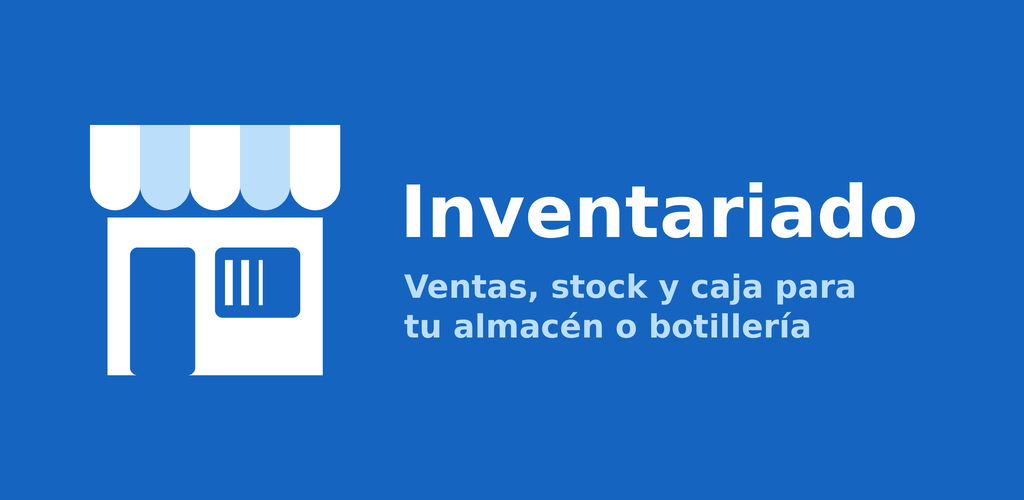
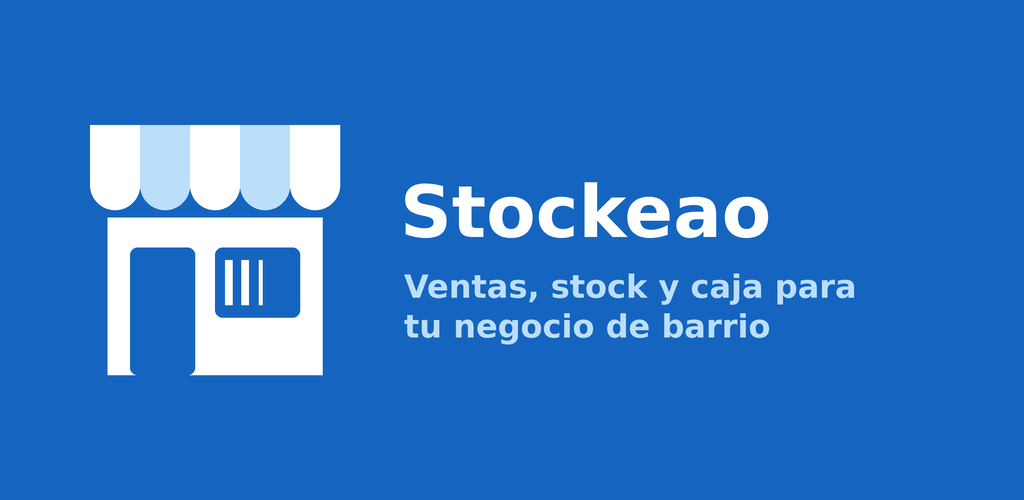
Nueva marca: Stockeao
- Nombre visible, paquete Android (cl.stockeao.app), esquema de enlaces y
  nombre de los archivos de compilación y respaldo.
- Textos de la app, términos y privacidad, páginas legales regeneradas y
  gráfico destacado de Google Play (pensado para cualquier negocio de barrio).
- Lo interno no cambia: esquema "inventariado" de Supabase, base local y
  clave de firma.

Claude-Session: https://claude.ai/code/session_01Ps7UGs9rsuZjk8WfdduxXN

Changed region(s): [[0.375, 0.36, 0.9062, 0.48], [0.4375, 0.63, 0.8125, 0.69]]

diff --git a/src/legal/textos.ts b/src/legal/textos.ts
@@ -7,30 +7,30 @@
 
 export const FECHA_LEGAL = '29 de septiembre de 2026';
 
-export const TERMINOS = `Términos y condiciones de uso de Inventariado
+export const TERMINOS = `Términos y condiciones de uso de Stockeao
 
 Última actualización: ${FECHA_LEGAL}
 
 1. El servicio
-Inventariado es una aplicación para administrar el inventario, las ventas y la caja de almacenes, botillerías y comercios similares. Se ofrece como servicio con pago mensual por negocio.
+Stockeao es una aplicación para administrar el inventario, las ventas y la caja de almacenes, botillerías y comercios similares. Se ofrece como servicio con pago mensual por negocio.
 
 2. Cuenta y usuarios
 El negocio se registra con un correo y contraseña, que son responsabilidad de quien los crea. Los usuarios del local (dueño y cajeros) se identifican con un PIN, que sirve para distinguir a las personas en el teléfono y no reemplaza la contraseña de la cuenta.
 
 3. Prueba gratis, planes y pagos
-Cada negocio nuevo tiene un período de prueba gratis. Luego debe contratar un plan mensual directamente con Inventariado. Los planes difieren, entre otras cosas, en la cantidad de teléfonos que se pueden usar. Los precios vigentes se informan al contratar y pueden cambiar con aviso previo de al menos 30 días.
+Cada negocio nuevo tiene un período de prueba gratis. Luego debe contratar un plan mensual directamente con Stockeao. Los planes difieren, entre otras cosas, en la cantidad de teléfonos que se pueden usar. Los precios vigentes se informan al contratar y pueden cambiar con aviso previo de al menos 30 días.
 
 4. Vencimiento y suspensión
 Si la suscripción vence, hay un período de gracia durante el cual la app sigue funcionando con avisos. Terminado ese período, la app queda en modo solo lectura: se pueden consultar los datos, pero no registrar ventas ni hacer cambios. Los datos no se borran por falta de pago y el servicio se reactiva al pagar.
 
 5. Uso correcto
-El cliente se compromete a usar la app para fines lícitos y a no intentar acceder a datos de otros negocios. Inventariado no es un sistema de facturación ni de boleta electrónica: los comprobantes que genera son internos y no tienen validez tributaria. El cumplimiento de las obligaciones tributarias es responsabilidad del cliente.
+El cliente se compromete a usar la app para fines lícitos y a no intentar acceder a datos de otros negocios. Stockeao no es un sistema de facturación ni de boleta electrónica: los comprobantes que genera son internos y no tienen validez tributaria. El cumplimiento de las obligaciones tributarias es responsabilidad del cliente.
 
 6. Disponibilidad
 La app funciona sin internet y sincroniza los datos cuando hay conexión. Se hacen esfuerzos razonables para que el servicio esté disponible y los datos respaldados, pero pueden ocurrir interrupciones. Se recomienda revisar periódicamente los reportes y cierres de caja.
 
 7. Responsabilidad
-El servicio se entrega "tal cual". Inventariado no responde por pérdidas derivadas de un mal uso, de datos ingresados incorrectamente, de fallas del teléfono o de la conexión, ni por decisiones comerciales tomadas con la información de la app, en la medida que la ley lo permita.
+El servicio se entrega "tal cual". Stockeao no responde por pérdidas derivadas de un mal uso, de datos ingresados incorrectamente, de fallas del teléfono o de la conexión, ni por decisiones comerciales tomadas con la información de la app, en la medida que la ley lo permita.
 
 8. Término del servicio
 El cliente puede dejar de usar el servicio en cualquier momento. Puede descargar una copia de sus datos (Más → Exportar datos) y eliminar el negocio con todos sus datos (Más → Eliminar cuenta y datos), según la Política de privacidad.
@@ -41,7 +41,7 @@ Estos términos pueden actualizarse. Los cambios relevantes se avisarán en la a
 10. Ley aplicable
 Estos términos se rigen por las leyes de la República de Chile.`;
 
-export const PRIVACIDAD = `Política de privacidad de Inventariado
+export const PRIVACIDAD = `Política de privacidad de Stockeao
 
 Última actualización: ${FECHA_LEGAL}
 

diff --git a/docs/legal-web/terminos.html b/docs/legal-web/terminos.html
@@ -3,7 +3,7 @@
   <head>
     <meta charset="utf-8" />
     <meta name="viewport" content="width=device-width, initial-scale=1" />
-    <title>Términos y condiciones de uso de Inventariado</title>
+    <title>Términos y condiciones de uso de Stockeao</title>
     <style>
       body {
         font-family: system-ui, sans-serif;
@@ -41,16 +41,15 @@
   </head>
   <body>
     <nav>
-      <a href="index.html">Inventariado</a><a href="privacidad.html">Privacidad</a
+      <a href="index.html">Stockeao</a><a href="privacidad.html">Privacidad</a
       ><a href="terminos.html">Términos</a><a href="eliminar-cuenta.html">Eliminar cuenta</a>
     </nav>
-    <h1>Términos y condiciones de uso de Inventariado</h1>
+    <h1>Términos y condiciones de uso de Stockeao</h1>
     <p>Última actualización: 29 de septiembre de 2026</p>
     <h2>1. El servicio</h2>
     <p>
-      Inventariado es una aplicación para administrar el inventario, las ventas y la caja de
-      almacenes, botillerías y comercios similares. Se ofrece como servicio con pago mensual por
-      negocio.
+      Stockeao es una aplicación para administrar el inventario, las ventas y la caja de almacenes,
+      botillerías y comercios similares. Se ofrece como servicio con pago mensual por negocio.
     </p>
     <h2>2. Cuenta y usuarios</h2>
     <p>
@@ -61,9 +60,9 @@
     <h2>3. Prueba gratis, planes y pagos</h2>
     <p>
       Cada negocio nuevo tiene un período de prueba gratis. Luego debe contratar un plan mensual
-      directamente con Inventariado. Los planes difieren, entre otras cosas, en la cantidad de
-      teléfonos que se pueden usar. Los precios vigentes se informan al contratar y pueden cambiar
-      con aviso previo de al menos 30 días.
+      directamente con Stockeao. Los planes difieren, entre otras cosas, en la cantidad de teléfonos
+      que se pueden usar. Los precios vigentes se informan al contratar y pueden cambiar con aviso
+      previo de al menos 30 días.
     </p>
     <h2>4. Vencimiento y suspensión</h2>
     <p>
@@ -75,7 +74,7 @@
     <h2>5. Uso correcto</h2>
     <p>
       El cliente se compromete a usar la app para fines lícitos y a no intentar acceder a datos de
-      otros negocios. Inventariado no es un sistema de facturación ni de boleta electrónica: los
+      otros negocios. Stockeao no es un sistema de facturación ni de boleta electrónica: los
       comprobantes que genera son internos y no tienen validez tributaria. El cumplimiento de las
       obligaciones tributarias es responsabilidad del cliente.
     </p>
@@ -87,8 +86,8 @@
     </p>
     <h2>7. Responsabilidad</h2>
     <p>
-      El servicio se entrega "tal cual". Inventariado no responde por pérdidas derivadas de un mal
-      uso, de datos ingresados incorrectamente, de fallas del teléfono o de la conexión, ni por
+      El servicio se entrega "tal cual". Stockeao no responde por pérdidas derivadas de un mal uso,
+      de datos ingresados incorrectamente, de fallas del teléfono o de la conexión, ni por
       decisiones comerciales tomadas con la información de la app, en la medida que la ley lo
       permita.
     </p>

diff --git a/docs/legal-web/eliminar-cuenta.html b/docs/legal-web/eliminar-cuenta.html
@@ -3,7 +3,7 @@
   <head>
     <meta charset="utf-8" />
     <meta name="viewport" content="width=device-width, initial-scale=1" />
-    <title>Eliminar tu cuenta de Inventariado</title>
+    <title>Eliminar tu cuenta de Stockeao</title>
     <style>
       body {
         font-family: system-ui, sans-serif;
@@ -41,16 +41,16 @@
   </head>
   <body>
     <nav>
-      <a href="index.html">Inventariado</a><a href="privacidad.html">Privacidad</a
+      <a href="index.html">Stockeao</a><a href="privacidad.html">Privacidad</a
       ><a href="terminos.html">Términos</a><a href="eliminar-cuenta.html">Eliminar cuenta</a>
     </nav>
-    <h1>Eliminar tu cuenta de Inventariado</h1>
+    <h1>Eliminar tu cuenta de Stockeao</h1>
     <p>
       El dueño del negocio puede eliminar el negocio y <strong>todos sus datos</strong> en cualquier
       momento:
     </p>
     <ol>
-      <li>Abre Inventariado e ingresa con tu PIN de dueño.</li>
+      <li>Abre Stockeao e ingresa con tu PIN de dueño.</li>
       <li>Ve a la pestaña <strong>Más</strong> → <strong>Eliminar cuenta y datos</strong>.</li>
       <li>Escribe ELIMINAR, ingresa la contraseña de la cuenta y confirma.</li>
     </ol>

diff --git a/src/app/suscripcion.tsx b/src/app/suscripcion.tsx
@@ -113,7 +113,7 @@ export default function SuscripcionScreen() {
   const avisarPago = async () => {
     const negocio = negocioId ? await obtenerNegocio(db, negocioId) : null;
     const texto = encodeURIComponent(
-      `Hola, quiero pagar la suscripción de Inventariado para "${negocio?.nombre ?? ''}".`,
+      `Hola, quiero pagar la suscripción de Stockeao para "${negocio?.nombre ?? ''}".`,
     );
     const numero = CONTACTO.whatsapp.replace(/\D/g, '');
     Linking.openURL(
@@ -157,8 +157,7 @@ export default function SuscripcionScreen() {
       {CANAL === 'play' ? (
         <View style={estilos.tarjeta}>
           <Text style={estilos.nota}>
-            La suscripción de tu negocio se gestiona directamente con Inventariado, fuera de esta
-            app.
+            La suscripción de tu negocio se gestiona directamente con Stockeao, fuera de esta app.
           </Text>
         </View>
       ) : null}

diff --git a/docs/legal-web/privacidad.html b/docs/legal-web/privacidad.html
@@ -3,7 +3,7 @@
   <head>
     <meta charset="utf-8" />
     <meta name="viewport" content="width=device-width, initial-scale=1" />
-    <title>Política de privacidad de Inventariado</title>
+    <title>Política de privacidad de Stockeao</title>
     <style>
       body {
         font-family: system-ui, sans-serif;
@@ -41,10 +41,10 @@
   </head>
   <body>
     <nav>
-      <a href="index.html">Inventariado</a><a href="privacidad.html">Privacidad</a
+      <a href="index.html">Stockeao</a><a href="privacidad.html">Privacidad</a
       ><a href="terminos.html">Términos</a><a href="eliminar-cuenta.html">Eliminar cuenta</a>
     </nav>
-    <h1>Política de privacidad de Inventariado</h1>
+    <h1>Política de privacidad de Stockeao</h1>
     <p>Última actualización: 29 de septiembre de 2026</p>
     <h2>1. Qué datos se guardan</h2>
     <ul>

diff --git a/docs/legal-web/index.html b/docs/legal-web/index.html
@@ -3,7 +3,7 @@
   <head>
     <meta charset="utf-8" />
     <meta name="viewport" content="width=device-width, initial-scale=1" />
-    <title>Inventariado</title>
+    <title>Stockeao</title>
     <style>
       body {
         font-family: system-ui, sans-serif;
@@ -41,10 +41,10 @@
   </head>
   <body>
     <nav>
-      <a href="index.html">Inventariado</a><a href="privacidad.html">Privacidad</a
+      <a href="index.html">Stockeao</a><a href="privacidad.html">Privacidad</a
       ><a href="terminos.html">Términos</a><a href="eliminar-cuenta.html">Eliminar cuenta</a>
     </nav>
-    <h1>Inventariado</h1>
+    <h1>Stockeao</h1>
     <p>
       Inventario, ventas y caja para almacenes, botillerías y minimarkets. Funciona sin internet y
       sincroniza entre los teléfonos del local.

diff --git a/src/__tests__/playstore.test.tsx b/src/__tests__/playstore.test.tsx
@@ -126,7 +126,7 @@ it('la versión de Play no muestra precios ni formas de pago externas', async ()
   await entrarComo('Ana', '1234');
   fireEvent.press(await screen.findByText('Suscripción'));
 
-  expect(await screen.findByText(/se gestiona directamente con Inventariado/)).toBeTruthy();
+  expect(await screen.findByText(/se gestiona directamente con Stockeao/)).toBeTruthy();
   expect(screen.queryByText('¿Cómo pagar?')).toBeNull();
   expect(screen.queryByText('Avisar que pagué')).toBeNull();
   expect(screen.queryByText('$9.990/mes')).toBeNull();

diff --git a/src/app/bienvenida.tsx b/src/app/bienvenida.tsx
@@ -14,7 +14,7 @@ export default function BienvenidaScreen() {
     <SafeAreaView style={estilos.pantalla}>
       <View style={estilos.encabezado}>
         <Ionicons name="storefront-outline" size={72} color={colores.primario} />
-        <Text style={estilos.titulo}>Inventariado</Text>
+        <Text style={estilos.titulo}>Stockeao</Text>
         <Text style={estilos.subtitulo}>Inventario y ventas para tu almacén o botillería</Text>
       </View>
 

diff --git a/src/app/exportar.tsx b/src/app/exportar.tsx
@@ -114,7 +114,7 @@ export default function ExportarScreen() {
           variante="secundario"
           cargando={trabajando === 'respaldo'}
           onPress={() =>
-            compartir('respaldo', `respaldo-inventariado-${hoy()}.json`, 'application/json', () =>
+            compartir('respaldo', `respaldo-stockeao-${hoy()}.json`, 'application/json', () =>
               respaldoJson(db, negocioId!),
             )
           }

diff --git a/app.config.ts b/app.config.ts
@@ -7,8 +7,8 @@ export default ({ config }: ConfigContext): ExpoConfig => {
 
   return {
     ...config,
-    name: config.name ?? 'Inventariado',
-    slug: config.slug ?? 'inventariado',
+    name: config.name ?? 'Stockeao',
+    slug: config.slug ?? 'stockeao',
     android: { ...config.android, versionCode },
   };
 };

diff --git a/src/features/exportar/exportar.ts b/src/features/exportar/exportar.ts
@@ -120,7 +120,7 @@ export async function respaldoJson(db: BaseLocal, negocioId: string): Promise<st
     );
   }
   return JSON.stringify(
-    { app: 'Inventariado', exportado_en: new Date().toISOString(), datos },
+    { app: 'Stockeao', exportado_en: new Date().toISOString(), datos },
     null,
     1,
   );

diff --git a/scripts/generar-iconos.py b/scripts/generar-iconos.py
@@ -96,10 +96,10 @@ def grafico_destacado():
     d = ImageDraw.Draw(img)
     a = alto * ESCALA * 0.5
     dibujar_almacen(d, 90 * ESCALA, (alto * ESCALA - a) / 2, a, BLANCO, AZUL, CELESTE)
-    d.text((400 * ESCALA, 170 * ESCALA), 'Inventariado', font=fuente(72 * ESCALA), fill=BLANCO)
+    d.text((400 * ESCALA, 170 * ESCALA), 'Stockeao', font=fuente(72 * ESCALA), fill=BLANCO)
     d.text(
         (404 * ESCALA, 268 * ESCALA),
-        'Ventas, stock y caja para\ntu almacén o botillería',
+        'Ventas, stock y caja para\ntu negocio de barrio',
         font=fuente(32 * ESCALA),
         fill=CELESTE,
         spacing=10 * ESCALA,
